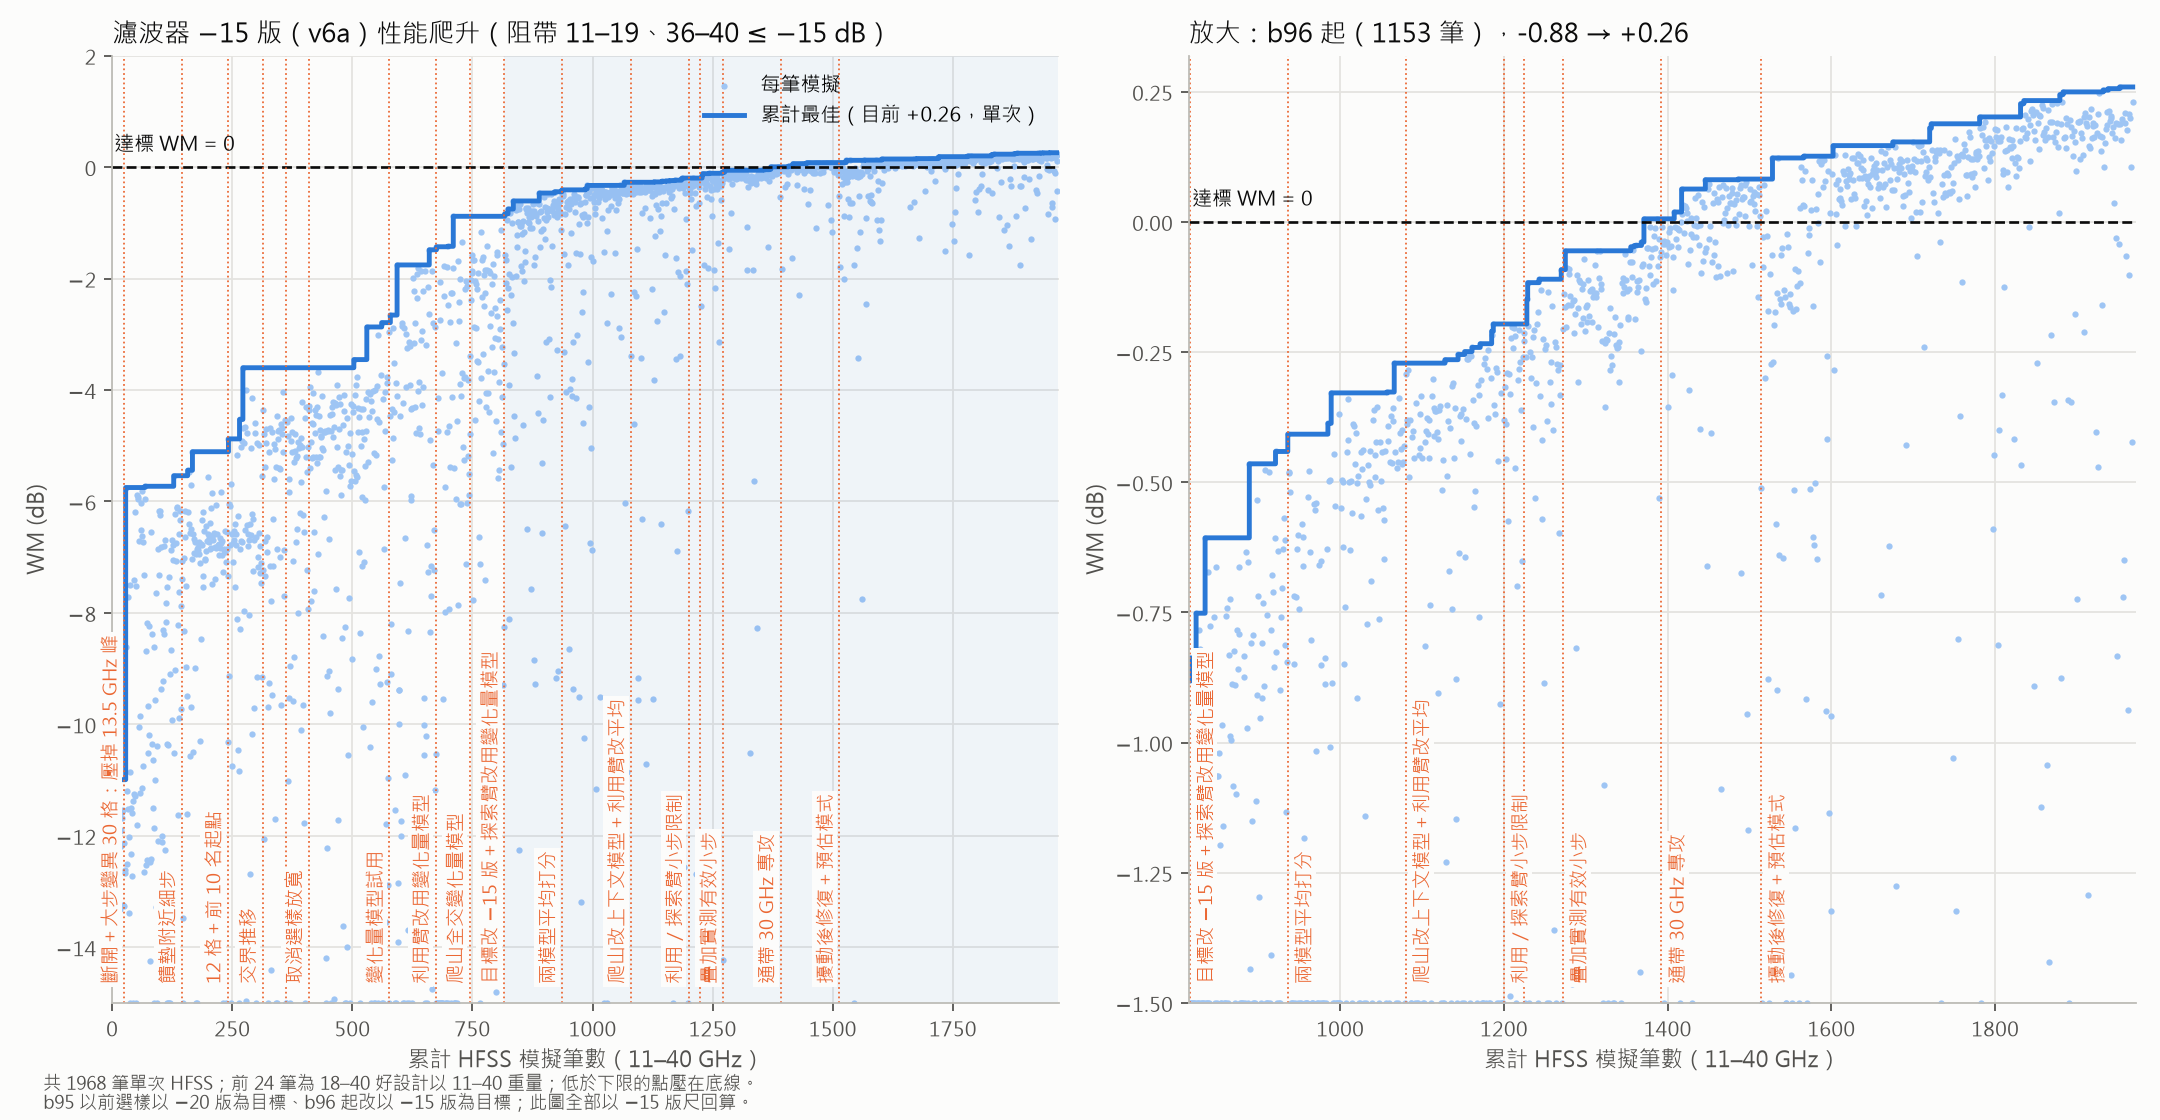
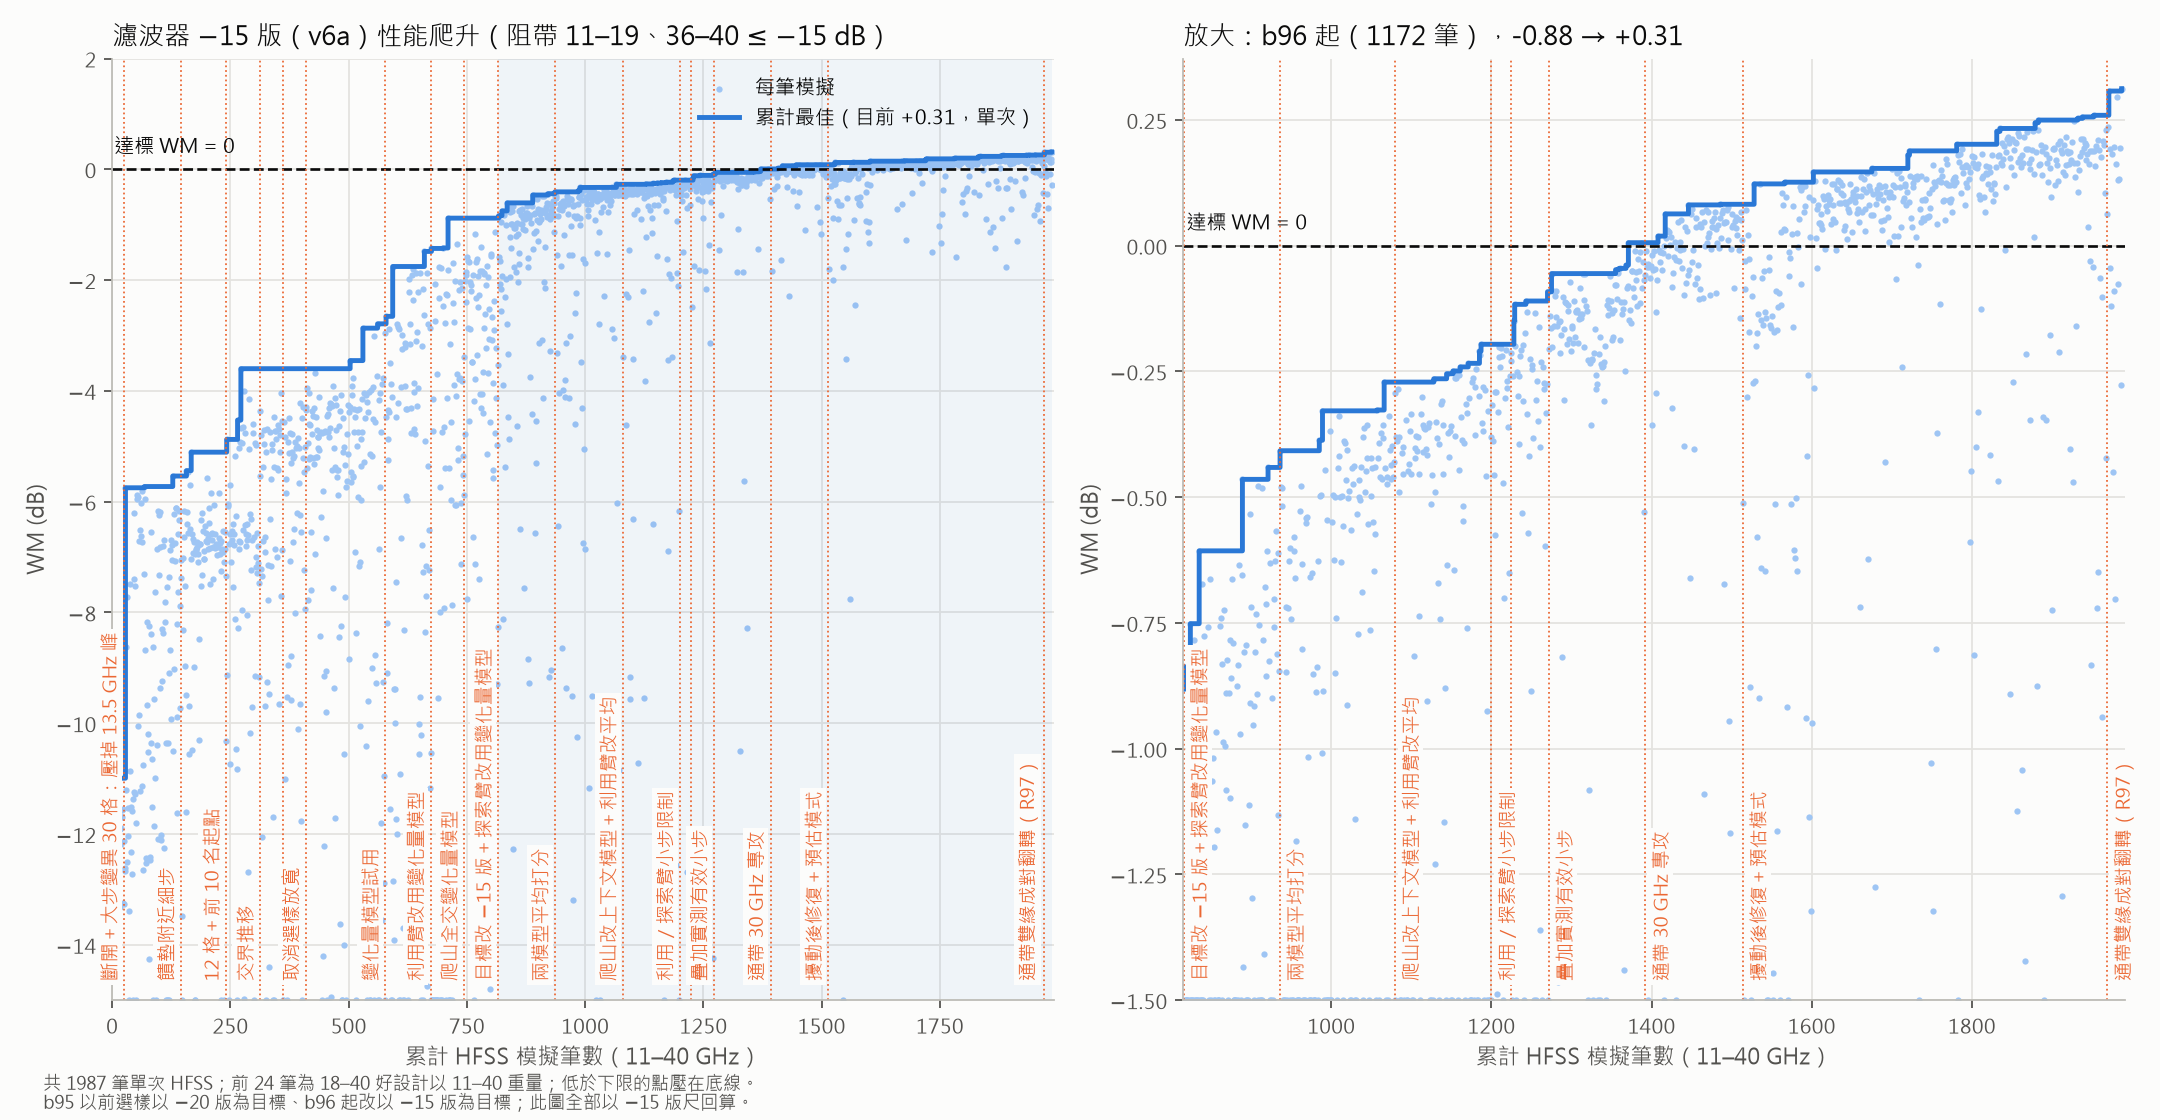
R97：公證 n27——mg32_011 +0.312（37=216），首個公證 ≥ +0.30，判準達成
爬升圖加「通帶雙緣成對翻轉（R97）」事件標記。

diff --git a/configs/ONGOING.md b/configs/ONGOING.md
@@ -4,7 +4,7 @@
 > 2026-10-12 前的完整流水帳（R80 收尾、Codex 的 R81 release 機制、diffsim、資料工廠、🔜 候選、✅ 指標）原樣封存在
 > [docs/log/archive/ongoing-2026-10-12.md](../docs/log/archive/ongoing-2026-10-12.md)。
 
-最後更新：2026-10-22 23:47
+最後更新：2026-10-23 00:52
 
 ## 🔵 R81 寬頻濾波器 spec v2（running）→ [round-81](../docs/log/round-81-wide-filter.md)
 
@@ -43,6 +43,7 @@
 
 ## 🔵 R97 v6a 通帶雙緣（running）→ [round-97](../docs/log/round-97-v6a-two-edge.md)
 
+- **10-23 00:52 公證最佳 `mg32_011` +0.312**（37＝216）——R97 判準達成（成對翻轉：挖 (8,6)＋挖 (1,23)）。
 - **公證最佳 `mg31_021` +0.259**（218＝216）；mg30_005 +0.256（216＝37）。R96 已結（回報）。mg32（26＋30 成對翻轉，24 筆）進行中。
 - 判準：3 批內公證 ≥ +0.30 成立；未破 R96 公證最佳 → v6a 平台確立、整理交付。待查：218 對部分幾何離群。
 

diff --git a/docs/log/round-97-v6a-two-edge.md b/docs/log/round-97-v6a-two-edge.md
@@ -47,6 +47,11 @@
 - 公證：mg32_006 → n25（37）、n26（218）；mg32_011 → n27（216）。
 - mg33：以 mg32_011、mg32_006 為底，在兩個槓桿格附近（26 側 6 格、30 側 6 格）做單格微調。
 
+### 2026-10-23 00:52：公證 n27——**mg32_011 +0.312（37＝216）**，判準達成
+
+- 216 重量 +0.3122、曲線差 2×10⁻⁵ dB → **公證最佳、首個公證 ≥ +0.30**。五項：通帶 +0.312、低阻 +0.994、高阻 +1.964、S11 +1.265、S22 +4.766。
+- **R97 判準「3 批內公證 ≥ +0.30 → 成立」於第 1 批達成**。mg33（已排、同一假設的鄰域微調）跑完即收輪。
+
 ## 5. 結論 (Conclude)
 
 ## 6. 後續決策 (Next)
